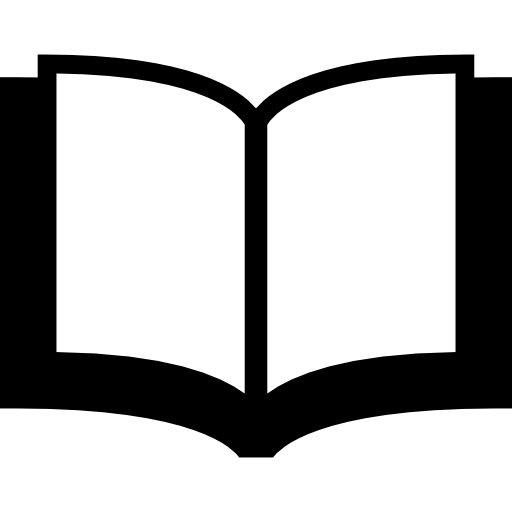
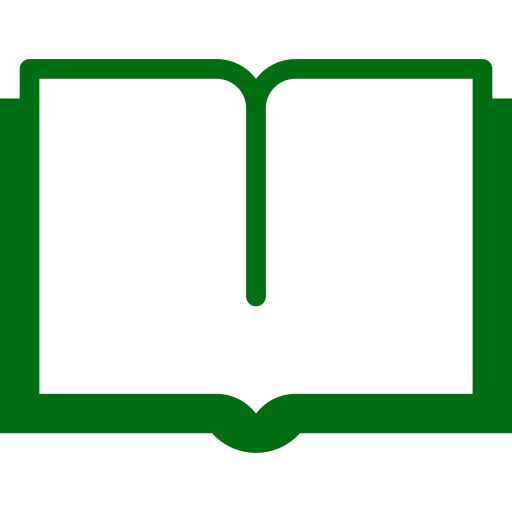
Finalizado a estiização do site

diff --git a/js/script.js b/js/script.js
@@ -6,6 +6,8 @@
 
 let conteinerPrincipal = document.querySelector("#conteiner-principal");
 
+let botaoLivro = document.querySelector("#botao-livro");
+
 let popUp = document.querySelector(".pop-up");
 let msgPopUp = document.querySelector(".msg-pop-up");
 
@@ -34,6 +36,7 @@ onload = function conectaApi() {
             })
         .catch(
             (erro) => {
+                botaoLivro.classList.add("invisivel");
                 let aviso = conteinerPrincipal.querySelector(".msg-status");
                 console.log("Houve um erro: " + erro);
                 aviso.textContent = "Error Connect";
@@ -52,7 +55,7 @@ function buscaColecao() {
         conteinerPrincipal.innerHTML = `
                 <div class="conteiner-config">
                     <p class="msg-status">No collection stored</p>
-                    <img src="img/icon adicionar.png" onclick="removeClasse(campoAddColecao, 'invisivel')">
+                    <img src="img/icon_add.png" onclick="removeClasse(campoAddColecao, 'invisivel')">
                 </div>
         `;
 
@@ -68,12 +71,22 @@ function mostraColecoes(colectionArmazenada) {
     let conteinerColecoes = conteinerPrincipal.querySelector(".conteiner-colecao");
 
     for (var nomeColecao in colectionArmazenada) {
-        conteinerColecoes.innerHTML += `<div class="colecoes">
-                                            <p>${nomeColecao}</p>
-                                            <button onclick="abrirColecao(this.parentElement.children[0].textContent)">Open</button>
-                                            <button onclick="delColecao(this.parentElement)">Delete</button>
+        conteinerColecoes.innerHTML += `<div class="div-colecao" 
+                                            onmouseover="mudarStyle(this.children[1], 'display', 'inline-block'), mudarStyle(this.children[0], 'width', '78%')" 
+                                            onmouseout="mudarStyle(this.children[1], 'display', 'none'), mudarStyle(this.children[0], 'width', '90%')"
+                                        >
+                                            <div class="colecao" onclick="abrirColecao(this.children[0].textContent)">
+                                                <p>${nomeColecao}</p>
+                                            </div>
+                                            <div class="div-img">
+                                                <img src="./img/icon_lixo.png" onclick="delColecao(this.parentElement.parentElement.children[0])">
+                                            </div>
                                         </div>`
     }
+}
+
+function mudarStyle(tag, estilo, valor) {
+    tag.style[estilo] = valor;
 }
 
 function abrirColecao(nomeColecao) {
@@ -91,6 +104,8 @@ function abrirColecao(nomeColecao) {
         conteinerImagens.innerHTML += `<p>No Image Found</p>`;
 
     } else {
+        conteinerImagens.style.border = "1px solid #00FF00";
+
         let colecao = colecaoArmazenada[nomeColecao].personagens;
 
         for (var personagem in colecao) {

diff --git a/css/style.css b/css/style.css
@@ -32,22 +32,31 @@ header nav {
     text-align: center;
 }
 
+nav .botoes-nav {
+    background-color: #101010;
+    display: inline-block;
+    border-radius: 20px;
+    padding: 15px;
+    border: 2px solid #00FF00;
+}
+
 nav li {
     display: inline-block;
-    margin: 0 3px;
-    padding: 10px;
+    margin: 0 10px;
+    padding: 12px;
+    border-radius: 50%;
+    outline: 5px solid #00FF00;
+    background-color: #000000;
+    cursor: pointer;
 }
 
 nav img {
-    border-radius: 50%;
-    padding: 15px;
-    background-color: #3bff45;
-    cursor: pointer;
-    width: 30px;
+    width: 28px;
 }
 
-nav img:hover {
-    background-color: #00FF00;
+nav li:hover {
+    outline: 6px solid #09ff00;
+    background-color: #002703;
 }
 
 main {
@@ -70,7 +79,7 @@ main {
     padding: 15px;
     background-color: #3bff45;
     cursor: pointer;
-    width: 30px;
+    width: 40px;
     margin-top: 20px;
 }
 
@@ -102,9 +111,15 @@ main {
     border: 1px solid #00FF00;
     border-radius: 5px;
     padding: 15px;
+    overflow: hidden;
 }
 
-.conteiner-colecao .colecoes {
+.div-colecao {
+    width: 100%;
+    position: relative;
+}
+
+.conteiner-colecao .colecao {
     position: relative;
     color: #FFFFFF;
     border-radius: 8px;
@@ -114,15 +129,19 @@ main {
     font-size: 1.1rem;
     font-weight: bold;
     cursor: pointer;
+    display: inline-block;
+    width: 90%;
+    margin-right: 10px;
+    transition: width 500ms;
 }
 
-.conteiner-colecao .colecoes:hover {
-    background-color: #005a0f;
+.conteiner-colecao .colecao:hover {
+    background-color: #003f0a;
     color: #00FF00;
     outline: 1px solid #00FF00;
 }
 
-.colecoes p {
+.colecao p {
     display: inline-block;
 }
 
@@ -136,16 +155,23 @@ main {
     cursor: pointer;
 }
 
-.conteiner-colecao button:last-of-type{
-    right: 10px;
-    background: red;
-    color: white;
+.div-colecao .div-img {
+    position: absolute;
+    top: 50%;
+    transform: translateY(-60%);
+    background-color: red;
+    border-radius: 10px;
+    padding: 13px;
+    cursor: pointer;
+    display: none;
 }
 
-.conteiner-colecao button:first-of-type{
-    right: 120px;
-    background: rgb(0, 102, 255);
-    color: white;
+.div-colecao .div-img:hover {
+    background-color: rgb(255, 27, 27);
+}
+
+.div-colecao img{
+    width: 30px;
 }
 
 .invisivel {

diff --git a/index.html b/index.html
@@ -15,13 +15,22 @@
         <nav>
             <ul class="botoes-nav">
                 <li>
-                    <a href="https://github.com/Emicla" target="_blank"><img src="img/icon-github.png"></a>
+                    <a href="https://github.com/Emicla" target="_blank">
+                        <img src="img/icon-github.png">
+                    </a>
                 </li>
-                <li><img src="img/icon_linkedin.png"></li>
-                <li><img src="img/icon_livro.png" onclick="adicionarClasse(armaPortais, 'invisivel'), buscaColecao()"></li>
+                
+                <li>
+                    <a href="https://www.linkedin.com/in/emicl%C3%A3-lenon-da-rosa/" target="_blank">
+                        <img src="img/icon_linkedin.png">
+                    </a>
+                </li>
+                <li onclick="adicionarClasse(armaPortais, 'invisivel'), buscaColecao()">
+                    <img src="img/icon_livro.png" id="botao-livro">
+                </li>
 
-                <li class="invisivel" id="icon-add-colecao">
-                    <img src="img/icon adicionar.png" onclick="removeClasse(campoAddColecao, 'invisivel')">
+                <li class="invisivel" id="icon-add-colecao" onclick="removeClasse(campoAddColecao, 'invisivel')">
+                    <img src="img/icon adicionar.png">
                 </li>
             </ul>
         </nav>

diff --git a/css/style_images.css b/css/style_images.css
@@ -51,6 +51,16 @@
     }
 }
 
+@keyframes rodarImagem {
+    0% {
+        transform: rotateY(0deg);
+    }
+
+    100% {
+        transform: rotateY(360deg);
+    }
+}
+
 .section-imagens {
     max-width: 55%;
     /* min-height: 400px; */
@@ -59,7 +69,6 @@
     flex-direction: row;
     flex-wrap: wrap;
     justify-content: space-evenly;
-    border: 1px solid #00FF00;
     border-radius: 5px;
 }
 
@@ -159,6 +168,11 @@
 
 .fundo-escuro .div-img-inf {
     background-color: #023600;
+    animation-name: rodarImagem;
+    animation-duration: 10s;
+    animation-iteration-count: infinite;
+    animation-fill-mode: both;
+    animation-timing-function: linear;
 }
 
 .fundo-escuro .inf-personagem {
